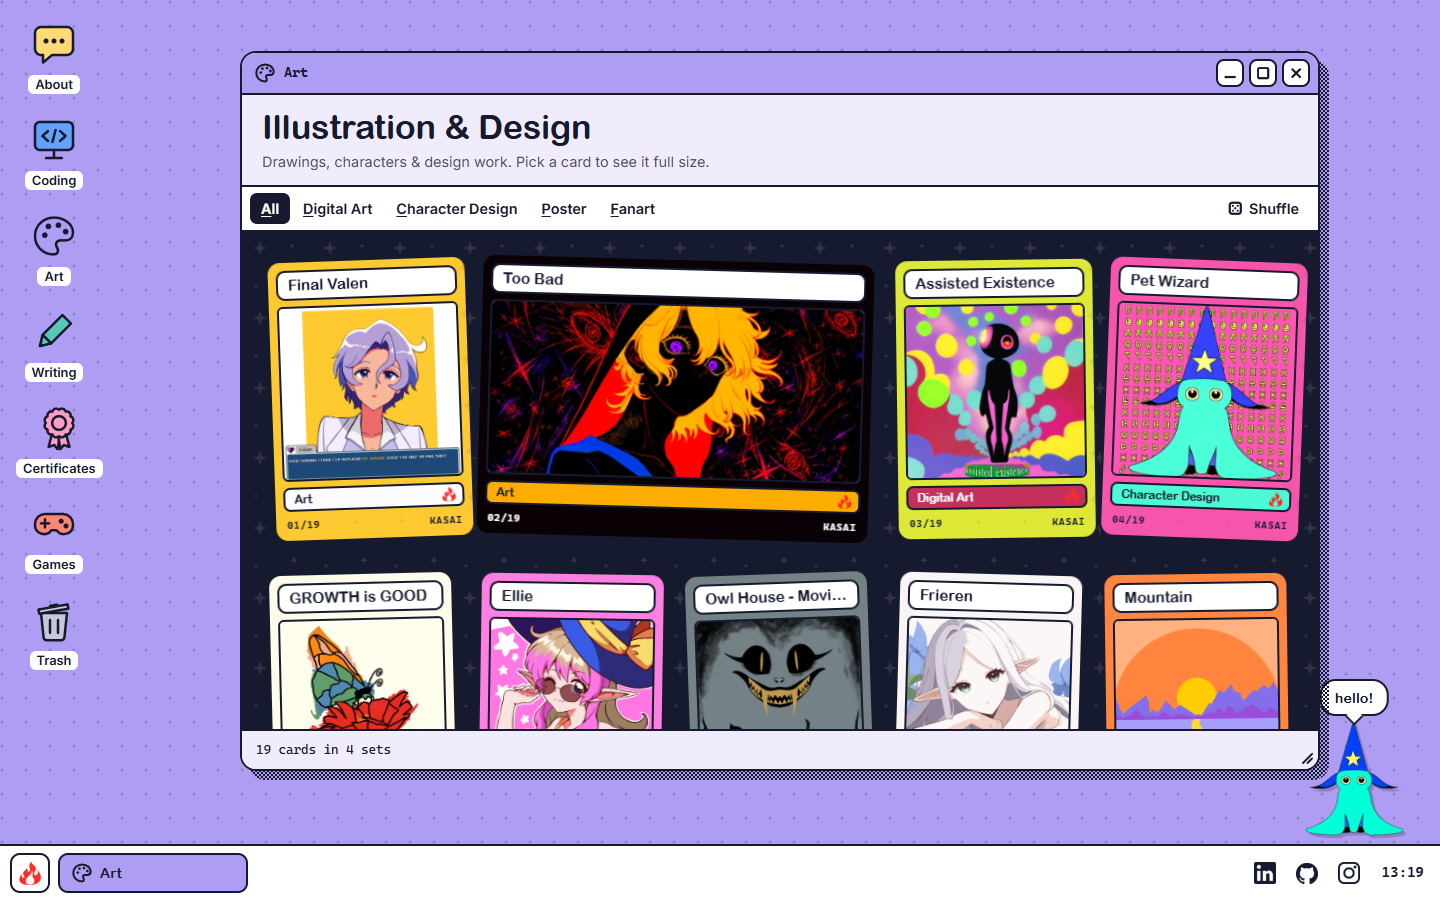
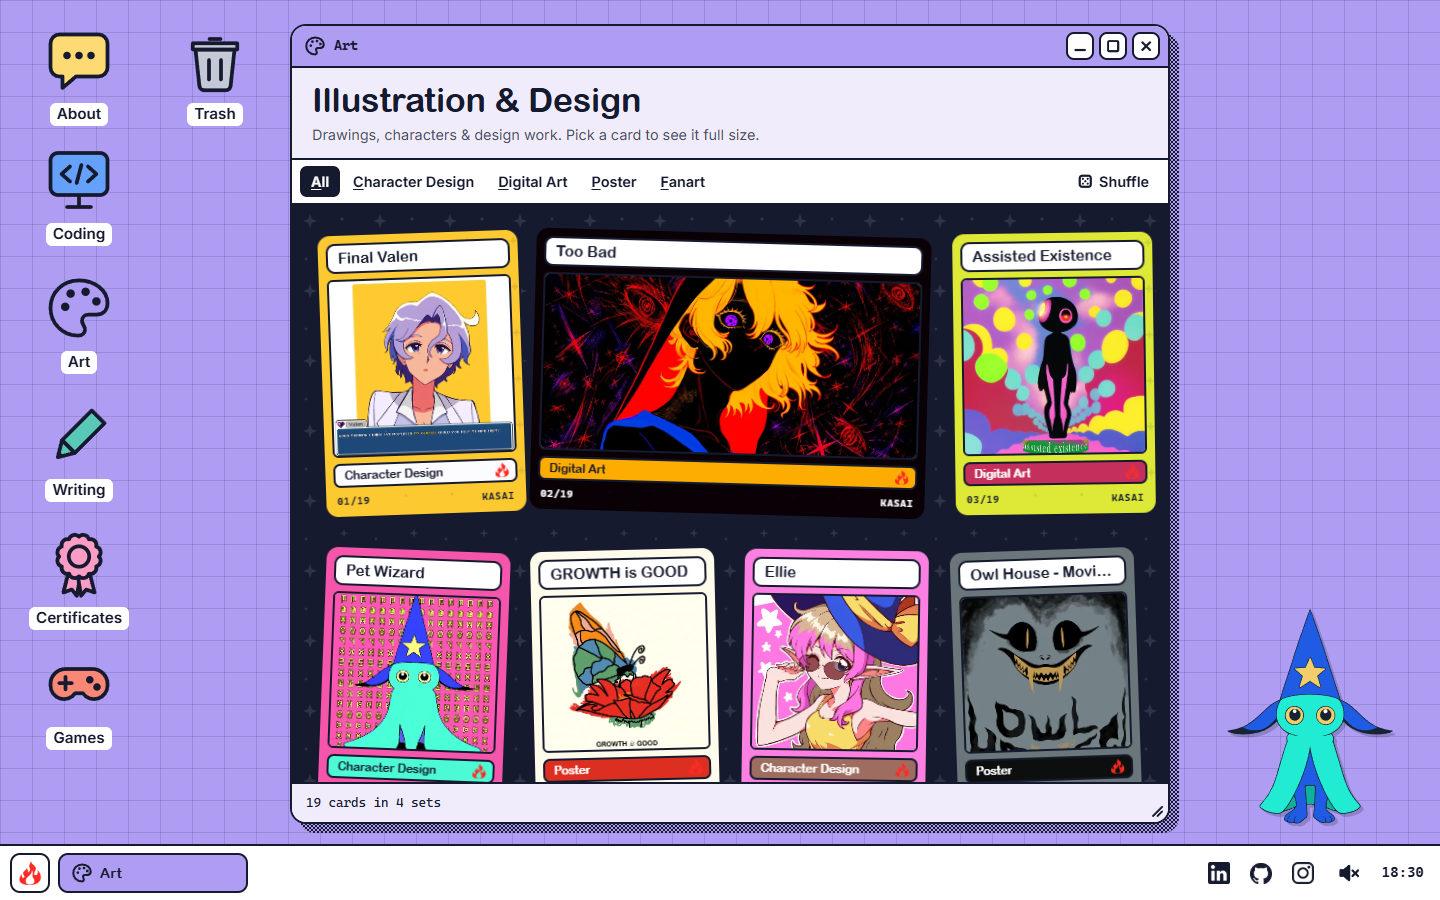
New pictures and words for This Portfolio and the README
Retakes the This Portfolio picture and the README's desktop, art, Wizard
Sweeper and phone shots on today's site (lavender grid, the new wizard,
a deal of Spell Solitaire), adds a Spell Solitaire shot, and gives This
Portfolio a description that says what the site is. The README now
covers Cascade, Side by side and Show desktop, the new wallpapers and the
light/dark wipe, Scry and Undraw, paint.exe's tools, and the wizard
hearing the sound switch and snoring.

diff --git a/content.js b/content.js
@@ -227,7 +227,7 @@ window.CONTENT = {
       title: 'This Portfolio',
       window: 'portfolio.html',             // title bar name (optional)
       accent: 'teal',
-      desc: 'The site you are looking at: a hand-built static portfolio with a one-file content system.',
+      desc: 'The site you\'re looking at: a little operating system I built by hand in plain HTML, CSS and JavaScript. Windows drag, snap and tidy themselves, a pet wizard roams the desktop, there are four games, every sound is made in the browser, and paint.exe hides in the Trash. Everything on it comes from one content file.',
       tags: ['HTML', 'CSS', 'JavaScript'],
       links: [
         { label: 'GitHub', url: 'https://github.com/totallynotkasai/Portfolio' },

diff --git a/README.md b/README.md
@@ -4,29 +4,31 @@ My portfolio is a little operating system. Double-click an icon on the lavender 
 
 **Live site:** https://www.andrewworgan.co.uk
 
-![Kasai OS on a computer: the About window in front, the projects folder and the art binder behind it, and the pet wizard saying hello](.github/screenshots/desktop.png)
+![Kasai OS on a computer: the About window, the art binder and a deal of Spell Solitaire, with the pet wizard saying hello](.github/screenshots/desktop.png)
 
 <p align="center">
   <img src=".github/screenshots/art.png" width="49%" alt="The Art window: a binder of spell cards, one for each artwork">
   <img src=".github/screenshots/sweeper.png" width="49%" alt="Wizard Sweeper: Minesweeper where the mines are sleeping wizards">
 </p>
 
+![Spell Solitaire: three peaks of cards with my art on them, a streak going and the wizard watching from the table](.github/screenshots/solitaire.png)
+
 ![Kasai OS on a phone: the home screen with the pet wizard, the About app and the Art app](.github/screenshots/phone.png)
 
 ## What's on the desktop
 
-- **About, Coding, Art, Writing and Certificates** each open a window that grows out of its icon. You can drag it (to the left or right edge of the screen to fill that half, or the top to fill all of it), resize it from any edge, maximise it, minimise it into the taskbar and close it. Old page addresses such as `/coding_projects` still work: they open that window.
+- **About, Coding, Art, Writing and Certificates** each open a window that grows out of its icon. You can drag it (to the left or right edge of the screen to fill that half, or the top to fill all of it), resize it from any edge, maximise it, minimise it into the taskbar and close it. The desktop's right-click menu tidies them up: Cascade, Side by side, and Show desktop to tuck them all away. Old page addresses such as `/coding_projects` still work: they open that window.
 - **My CV**, a button under the About text, opens my CV on a sheet of paper in a window of its own (or go straight to [`/cv`](https://www.andrewworgan.co.uk/cv)). Its menu bar prints it or saves it as a PDF, and only the page prints.
 - **The image viewer** opens art, certificates and the Trash's old designs full size, and steps through the rest of that folder with its arrows, the arrow keys or a swipe.
 - **Games** holds four roguelikes:
   - **Wizard Sweeper**: Minesweeper where the mines are sleeping wizards. Every level is a little bigger, and you pick an upgrade between levels.
   - **Not Rubbish**: someone dropped the pet wizard in the Trash. He climbs out turn by turn through the site's retired designs, bonking gremlins that mark the tiles they'll strike, with a program to install after every floor and the Empty Recycle Bin dialog waiting on the lid.
   - **Star Drop**: the pet wizard is asleep and his nightmares are creeping towards his bed. In his dream he flicks the star off his hat through a sky of pegs: every peg it pops is damage (coloured pegs count for more, and once in a blue moon a moon rises that makes a shot count ten times over), and after each shot the nightmares step closer. A run is a week of nights, picking a new star or a charm each morning, with the Bogeyman waiting on Sunday; endless runs keep going, harder every night, until his hearts run out.
-  - **Spell Solitaire**: TriPeaks with my art on the cards. Play any uncovered card one higher or lower than the pile and chain them into streaks, each card worth more than the last. A run is seven deals with a target each; between deals you pick a spell (Wild, Fireball, Echo, Rewind, Moonlight) or a charm, and from the fourth deal curses join in.
-- **Trash** keeps the site's retired designs, because I couldn't bring myself to delete them.
-- **The pet wizard** lives on the desktop: pet him, carry him about, double-click the desktop to call him over, or ignore him until he naps.
+  - **Spell Solitaire**: TriPeaks with my art on the cards. Play any uncovered card one higher or lower than the pile and chain them into streaks, each card worth more than the last. A run is seven deals with a target each; between deals you pick a spell (Wild, Fireball, Echo, Rewind, Moonlight, Scry to see and reorder the next three cards, Undraw to take back a draw) or a charm, and from the fourth deal curses join in.
+- **Trash** keeps the site's retired designs, because I couldn't bring myself to delete them. It also hides paint.exe, an old paint program that still works: pencil, brush, line, rectangle, fill, eyedropper and eraser in the site's colours.
+- **The pet wizard** lives on the desktop: pet him, carry him about, double-click the desktop to call him over, or ignore him until he naps (with sound on, you'll hear him snore). He notices when you switch the sound on or off, too.
 - **Sound** is off until you switch it on with the speaker by the clock (or Sound in the Start menu). Windows blip, the wizard boops, Star Drop's pegs climb a scale as the star falls, and losing a heart in a game gives the board a shake.
-- There's a boot screen, a right-click desktop menu, a wallpaper picker and a few secret codes to find.
+- There's a boot screen, a right-click desktop menu, a wallpaper picker (seven colours; dots, grid, stars, checker, waves or plain; light or dark, switched with a circle wipe) and a few secret codes to find.
 - On a phone the desktop becomes a home screen: apps open full screen and the Back button closes them.
 
 ## How it works
